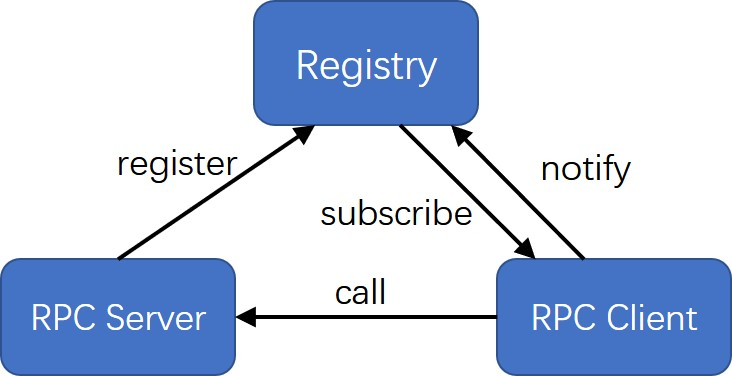
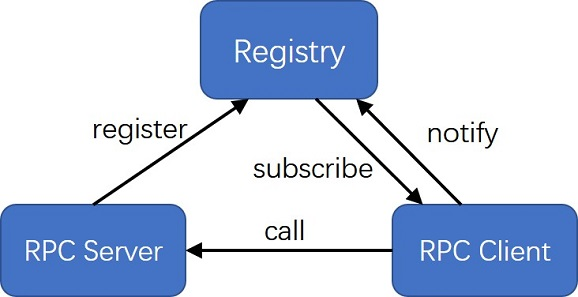
initialization

diff --git a/README.md b/README.md
@@ -1,2 +1,7 @@
 # ToyRPC
+
 A toy RPC  framework based on Netty, ZooKeeper and Spring.
+
+## Design
+
+![RPC Design](https://raw.githubusercontent.com/Wan-Ge/ToyRPC/master/design.jpg)
